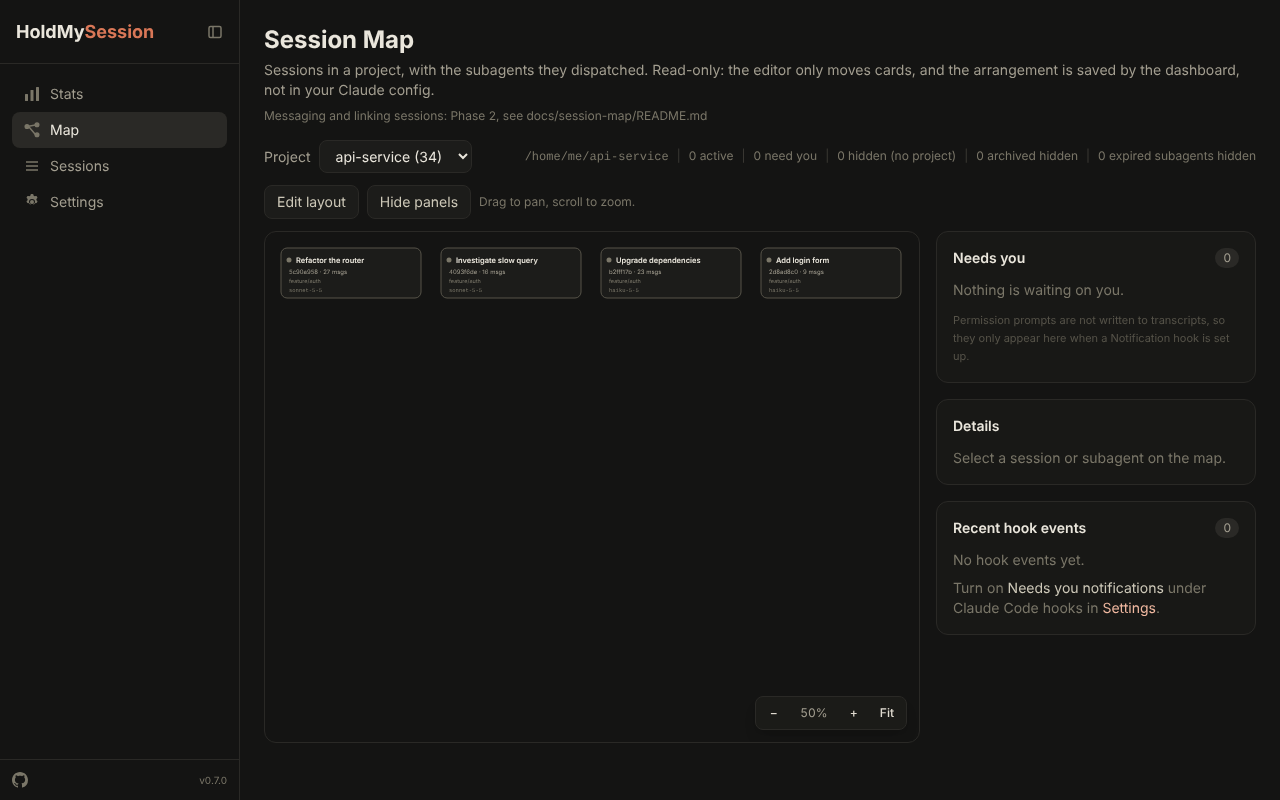
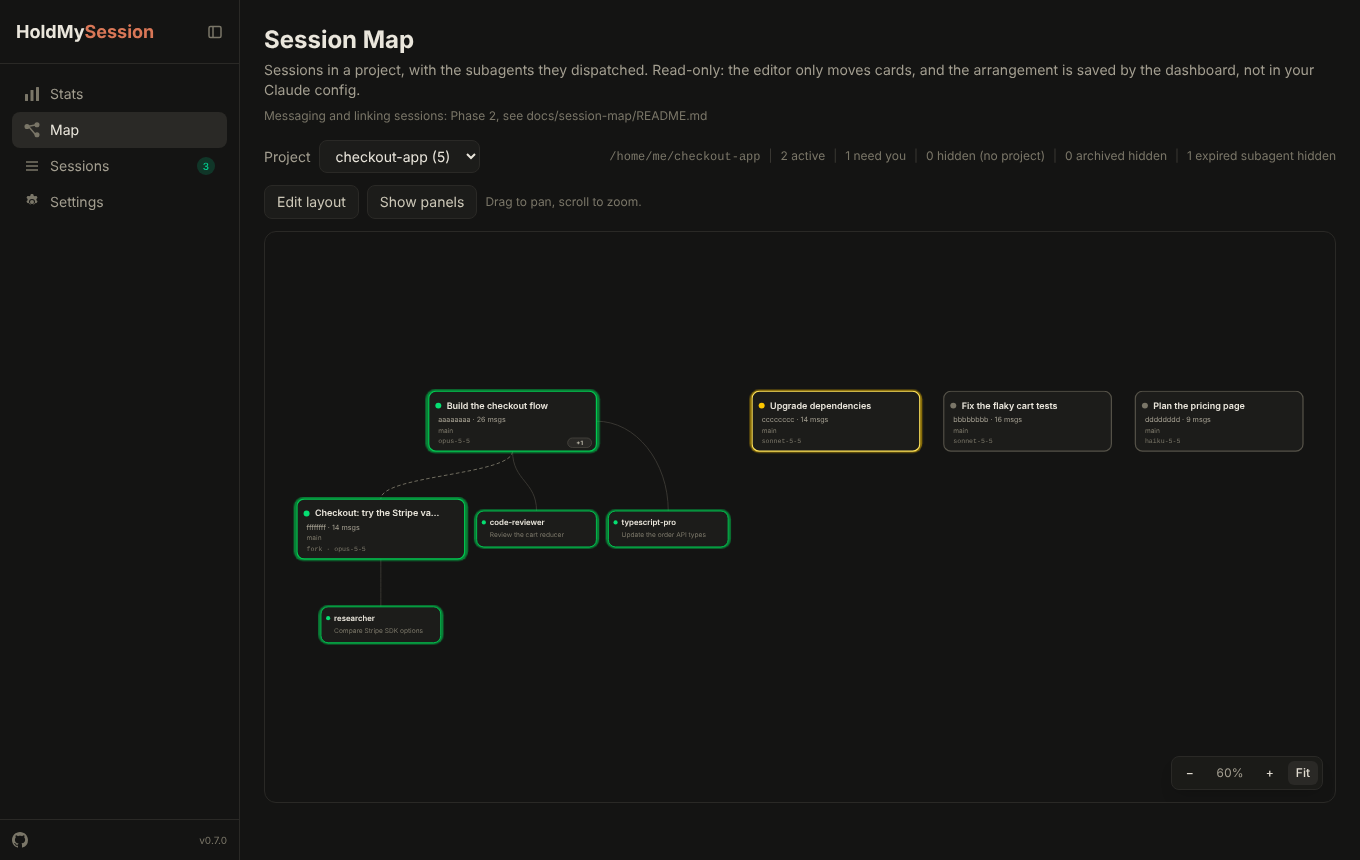
Keep only the Stats and Map screenshots in the README
Claude-Session: https://claude.ai/code/session_01SJiXfkC38xTwLZ8GJJYmWf

diff --git a/README.md b/README.md
@@ -35,8 +35,6 @@ Then open http://localhost:3000.
 
 ### Sessions
 
-![Session detail](screenshots/session-detail-full.png)
-
 - A searchable, sortable list of every session, filtered by status, project, model and date. Active sessions are marked live.
 - **Agent delegation timeline:** a Gantt-style view of every subagent a session dispatched, in order, with how long each ran and the tokens it used. Zoom in on busy workflows.
 - **Context window:** a live breakdown of input, output and cache tokens against the window size, which is found for you: your `/autocompact` setting if you set one, otherwise the model's window.
@@ -50,8 +48,6 @@ Then open http://localhost:3000.
 - **Unlinked Sessions:** sessions with no working folder, or in a folder whose name starts with `scratch`, are grouped as one entry instead of one row each.
 - Export any of it as CSV or JSON.
 
-![Projects](screenshots/stats-projects.png)
-
 ### History database
 
 Stats come from HoldMySession's own SQLite file, `~/.holdmysession/history.db`, not straight from Claude's files, so your history survives Claude clearing its folder.
@@ -63,9 +59,9 @@ Stats come from HoldMySession's own SQLite file, `~/.holdmysession/history.db`, 
 
 ### Session Map
 
-The **Map** shows one project's sessions as a tree: each session, its forks as children, and its running subagents as small cards, coloured by status (needs you, active, recent, idle). A side panel lists what is waiting on you and recent hook events. Drag to pan, scroll to zoom, and use **Edit layout** to arrange cards; the arrangement is saved and follows you to other devices. Details in [docs/session-map/README.md](docs/session-map/README.md).
-
 ![Session map](screenshots/session-map.png)
+
+The **Map** shows one project's sessions as a tree: each session, its forks as children, and its running subagents as small cards, coloured by status (needs you, active, recent, idle). A side panel lists what is waiting on you and recent hook events. Drag to pan, scroll to zoom, and use **Edit layout** to arrange cards; the arrangement is saved and follows you to other devices. Details in [docs/session-map/README.md](docs/session-map/README.md).
 
 ### Several computers
 
@@ -78,8 +74,6 @@ Link machines to see them all in one place. One install is the **master** and th
 ### Projects settings
 
 Choose how scratch sessions appear (grouped as Unlinked Sessions, listed folder by folder, or hidden), name them by session name, and hide any project on any machine from lists and dropdowns. Hiding changes lists only; every total, chart and cost still counts everything.
-
-![Projects settings](screenshots/settings-page.png)
 
 ### Claude Code hooks
 

diff --git a/apps/web/README.md b/apps/web/README.md
@@ -35,8 +35,6 @@ Then open http://localhost:3000.
 
 ### Sessions
 
-![Session detail](screenshots/session-detail-full.png)
-
 - A searchable, sortable list of every session, filtered by status, project, model and date. Active sessions are marked live.
 - **Agent delegation timeline:** a Gantt-style view of every subagent a session dispatched, in order, with how long each ran and the tokens it used. Zoom in on busy workflows.
 - **Context window:** a live breakdown of input, output and cache tokens against the window size, which is found for you: your `/autocompact` setting if you set one, otherwise the model's window.
@@ -50,8 +48,6 @@ Then open http://localhost:3000.
 - **Unlinked Sessions:** sessions with no working folder, or in a folder whose name starts with `scratch`, are grouped as one entry instead of one row each.
 - Export any of it as CSV or JSON.
 
-![Projects](screenshots/stats-projects.png)
-
 ### History database
 
 Stats come from HoldMySession's own SQLite file, `~/.holdmysession/history.db`, not straight from Claude's files, so your history survives Claude clearing its folder.
@@ -63,9 +59,9 @@ Stats come from HoldMySession's own SQLite file, `~/.holdmysession/history.db`, 
 
 ### Session Map
 
-The **Map** shows one project's sessions as a tree: each session, its forks as children, and its running subagents as small cards, coloured by status (needs you, active, recent, idle). A side panel lists what is waiting on you and recent hook events. Drag to pan, scroll to zoom, and use **Edit layout** to arrange cards; the arrangement is saved and follows you to other devices. Details in [docs/session-map/README.md](docs/session-map/README.md).
-
 ![Session map](screenshots/session-map.png)
+
+The **Map** shows one project's sessions as a tree: each session, its forks as children, and its running subagents as small cards, coloured by status (needs you, active, recent, idle). A side panel lists what is waiting on you and recent hook events. Drag to pan, scroll to zoom, and use **Edit layout** to arrange cards; the arrangement is saved and follows you to other devices. Details in [docs/session-map/README.md](docs/session-map/README.md).
 
 ### Several computers
 
@@ -78,8 +74,6 @@ Link machines to see them all in one place. One install is the **master** and th
 ### Projects settings
 
 Choose how scratch sessions appear (grouped as Unlinked Sessions, listed folder by folder, or hidden), name them by session name, and hide any project on any machine from lists and dropdowns. Hiding changes lists only; every total, chart and cost still counts everything.
-
-![Projects settings](screenshots/settings-page.png)
 
 ### Claude Code hooks
 
